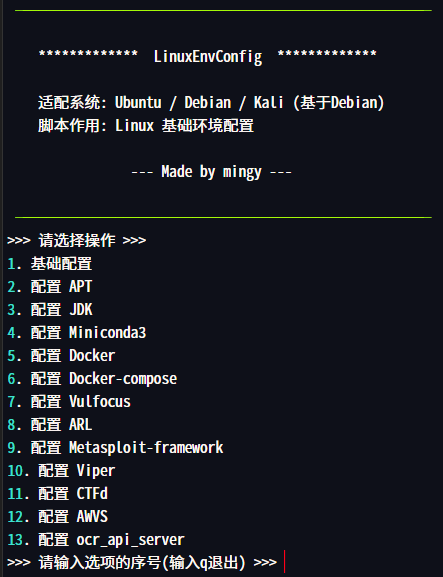
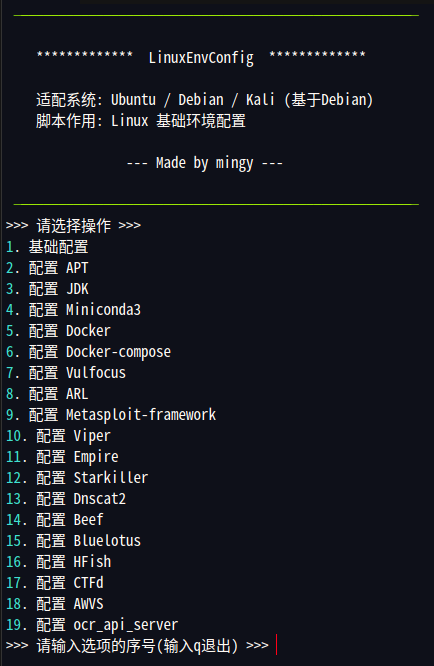
update: README.md

Changed region(s): [[0.0, 0.0624, 0.9585, 0.9983], [0.03, 0.0, 0.9585, 0.0312], [0.629, 0.0624, 0.8687, 0.0936]]

diff --git a/README.md b/README.md
@@ -42,10 +42,12 @@ sudo bash LinuxEnvConfig.sh
 11. 配置 Empire
 12. 配置 Starkiller
 13. 配置 Dnscat2
-14. 配置 HFish
-15. 配置 CTFd
-16. 配置 AWVS
-17. 配置 ocr_api_server
+14. 配置 Beef
+15. 配置 Bluelotus
+16. 配置 HFish
+17. 配置 CTFd
+18. 配置 AWVS
+19. 配置 ocr_api_server
 
 ### 基础配置
 
